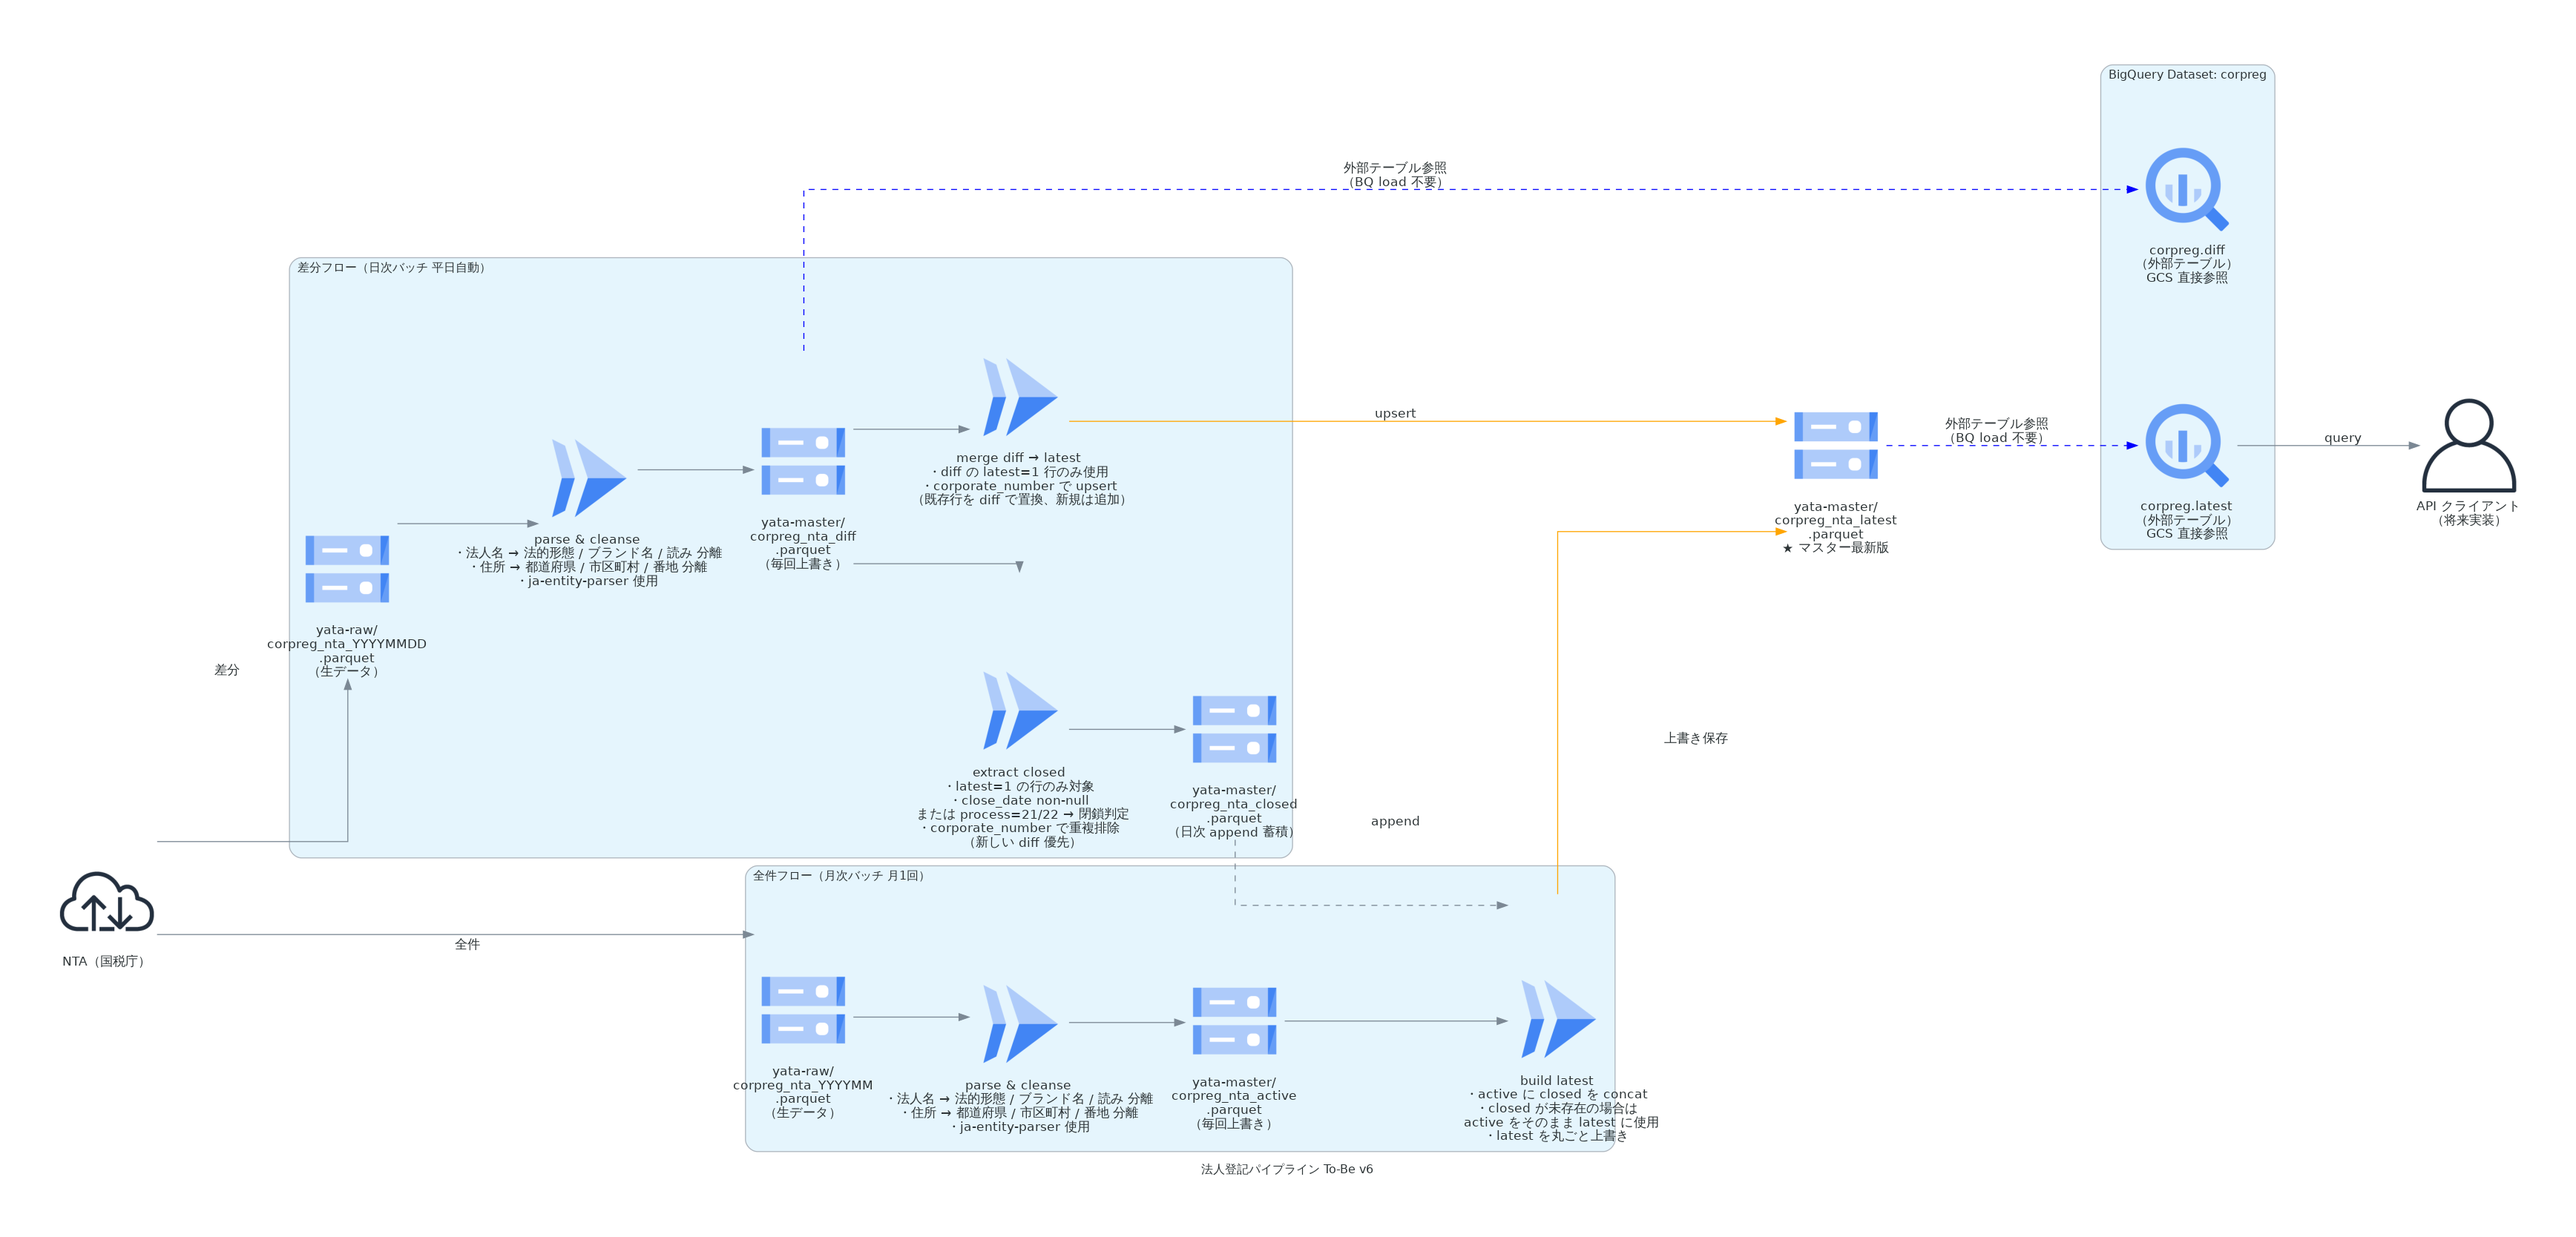
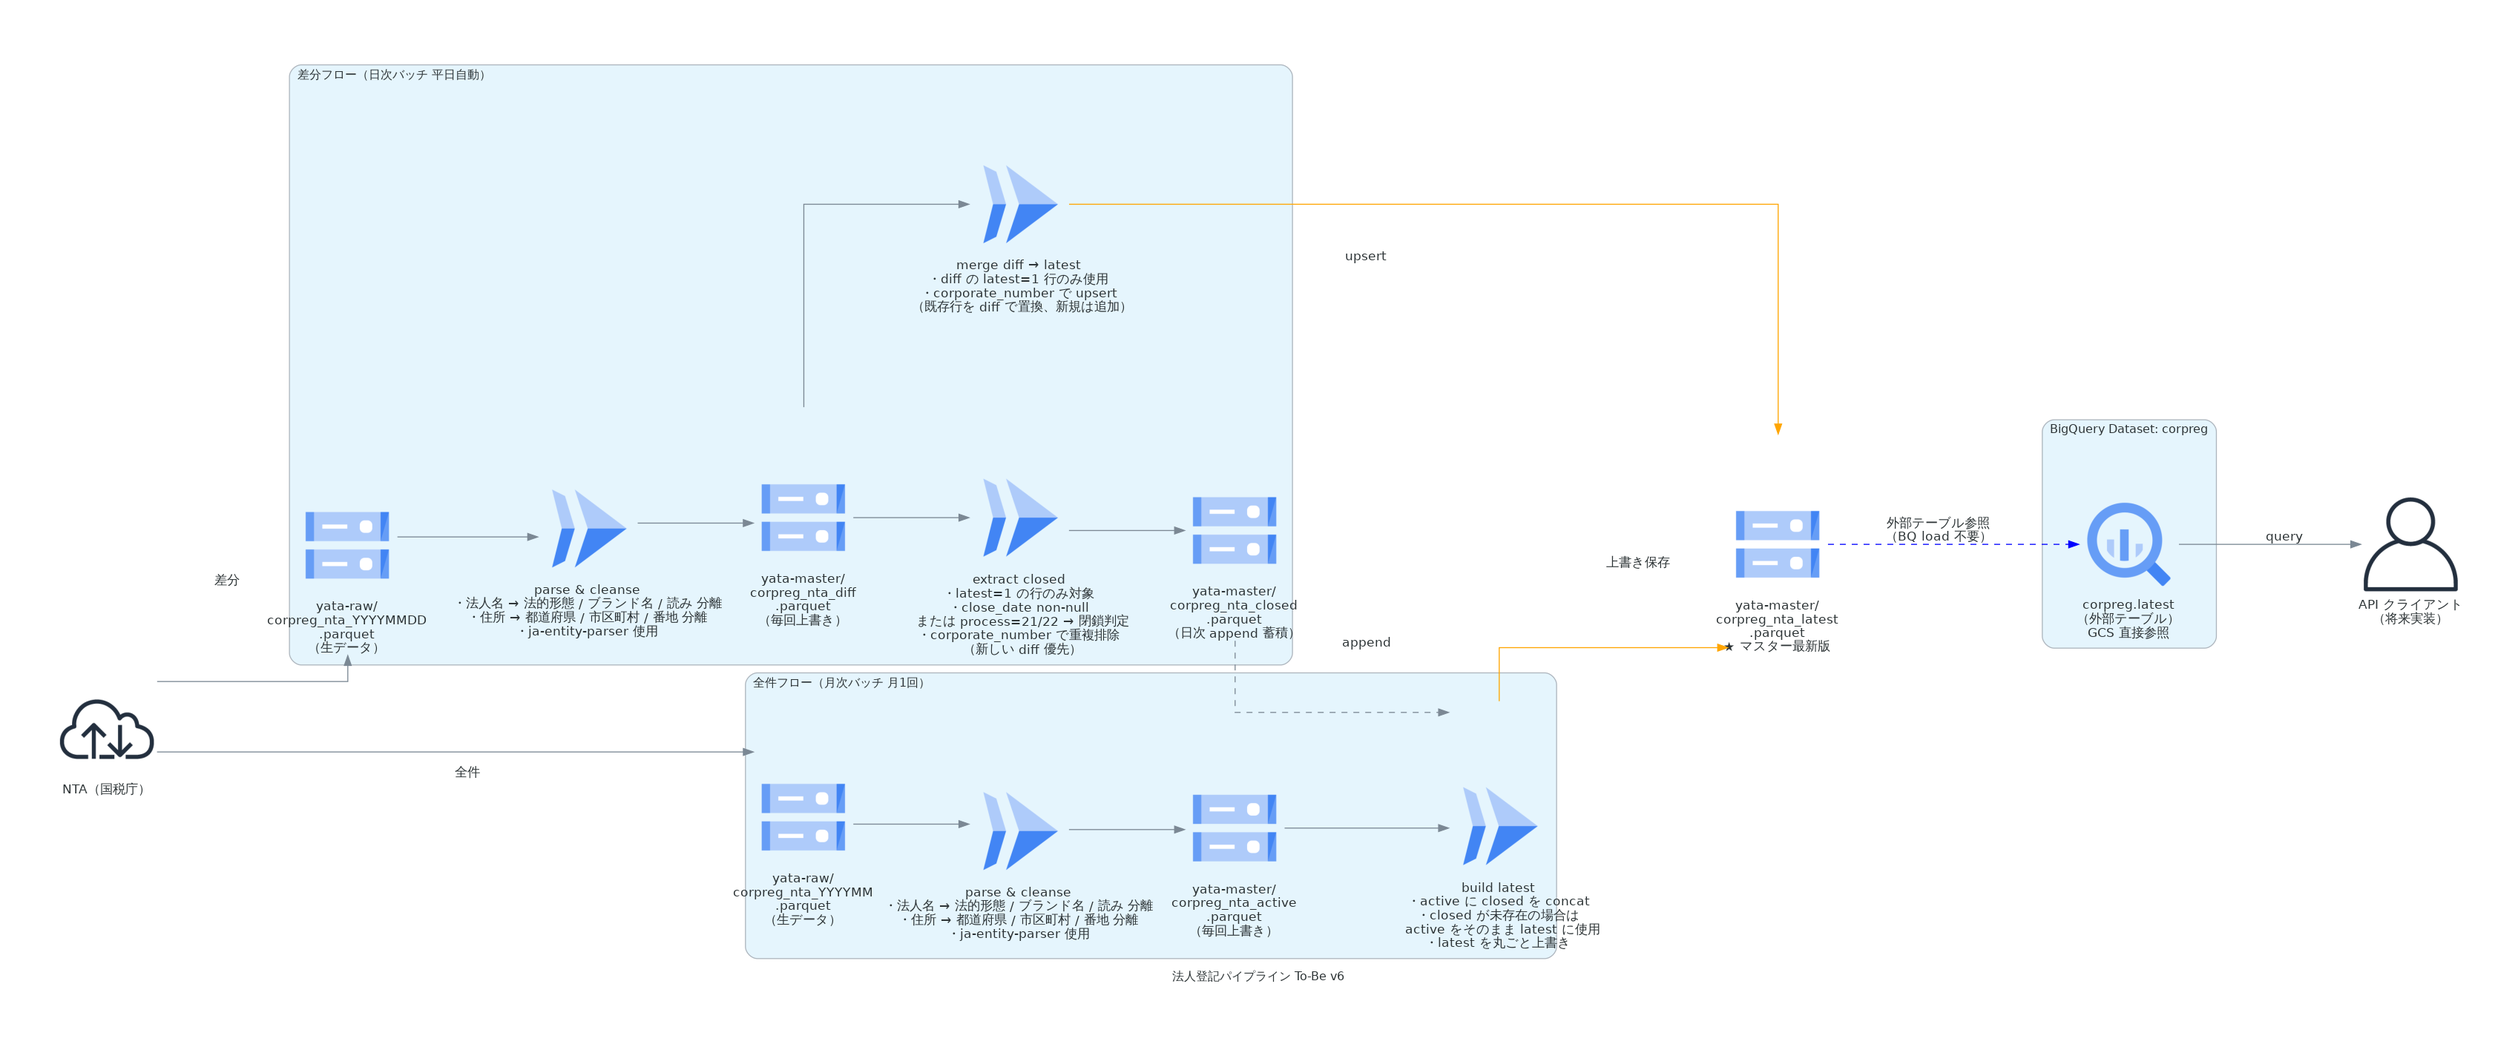
docs: remove corpreg.diff external table (unused) from README and diagram

diff --git a/README.md b/README.md
@@ -23,7 +23,6 @@ BQ へのデータロードは行いません。パイプラインは GCS への
 | BQ テーブル | 参照先 GCS ファイル | 説明 |
 |:------------|:--------------------|:-----|
 | `corpreg.latest` (EXTERNAL) | `gs://yata-master/corpreg_nta_latest.parquet` | マスター最新版（SQL参照用） |
-| `corpreg.diff` (EXTERNAL) | `gs://yata-master/corpreg_nta_diff.parquet` | 最新の差分データ（SQL参照用） |
 
 外部テーブルはファイルが更新されると自動的に最新データが反映されます（再作成不要）。
 
@@ -192,10 +191,6 @@ bq mk --table \
   --external_table_definition=@PARQUET=gs://yata-master/corpreg_nta_latest.parquet \
   yata-intelligence:corpreg.latest
 
-# diff（最新差分）
-bq mk --table \
-  --external_table_definition=@PARQUET=gs://yata-master/corpreg_nta_diff.parquet \
-  yata-intelligence:corpreg.diff
 ```
 
 ## ディレクトリ構成
